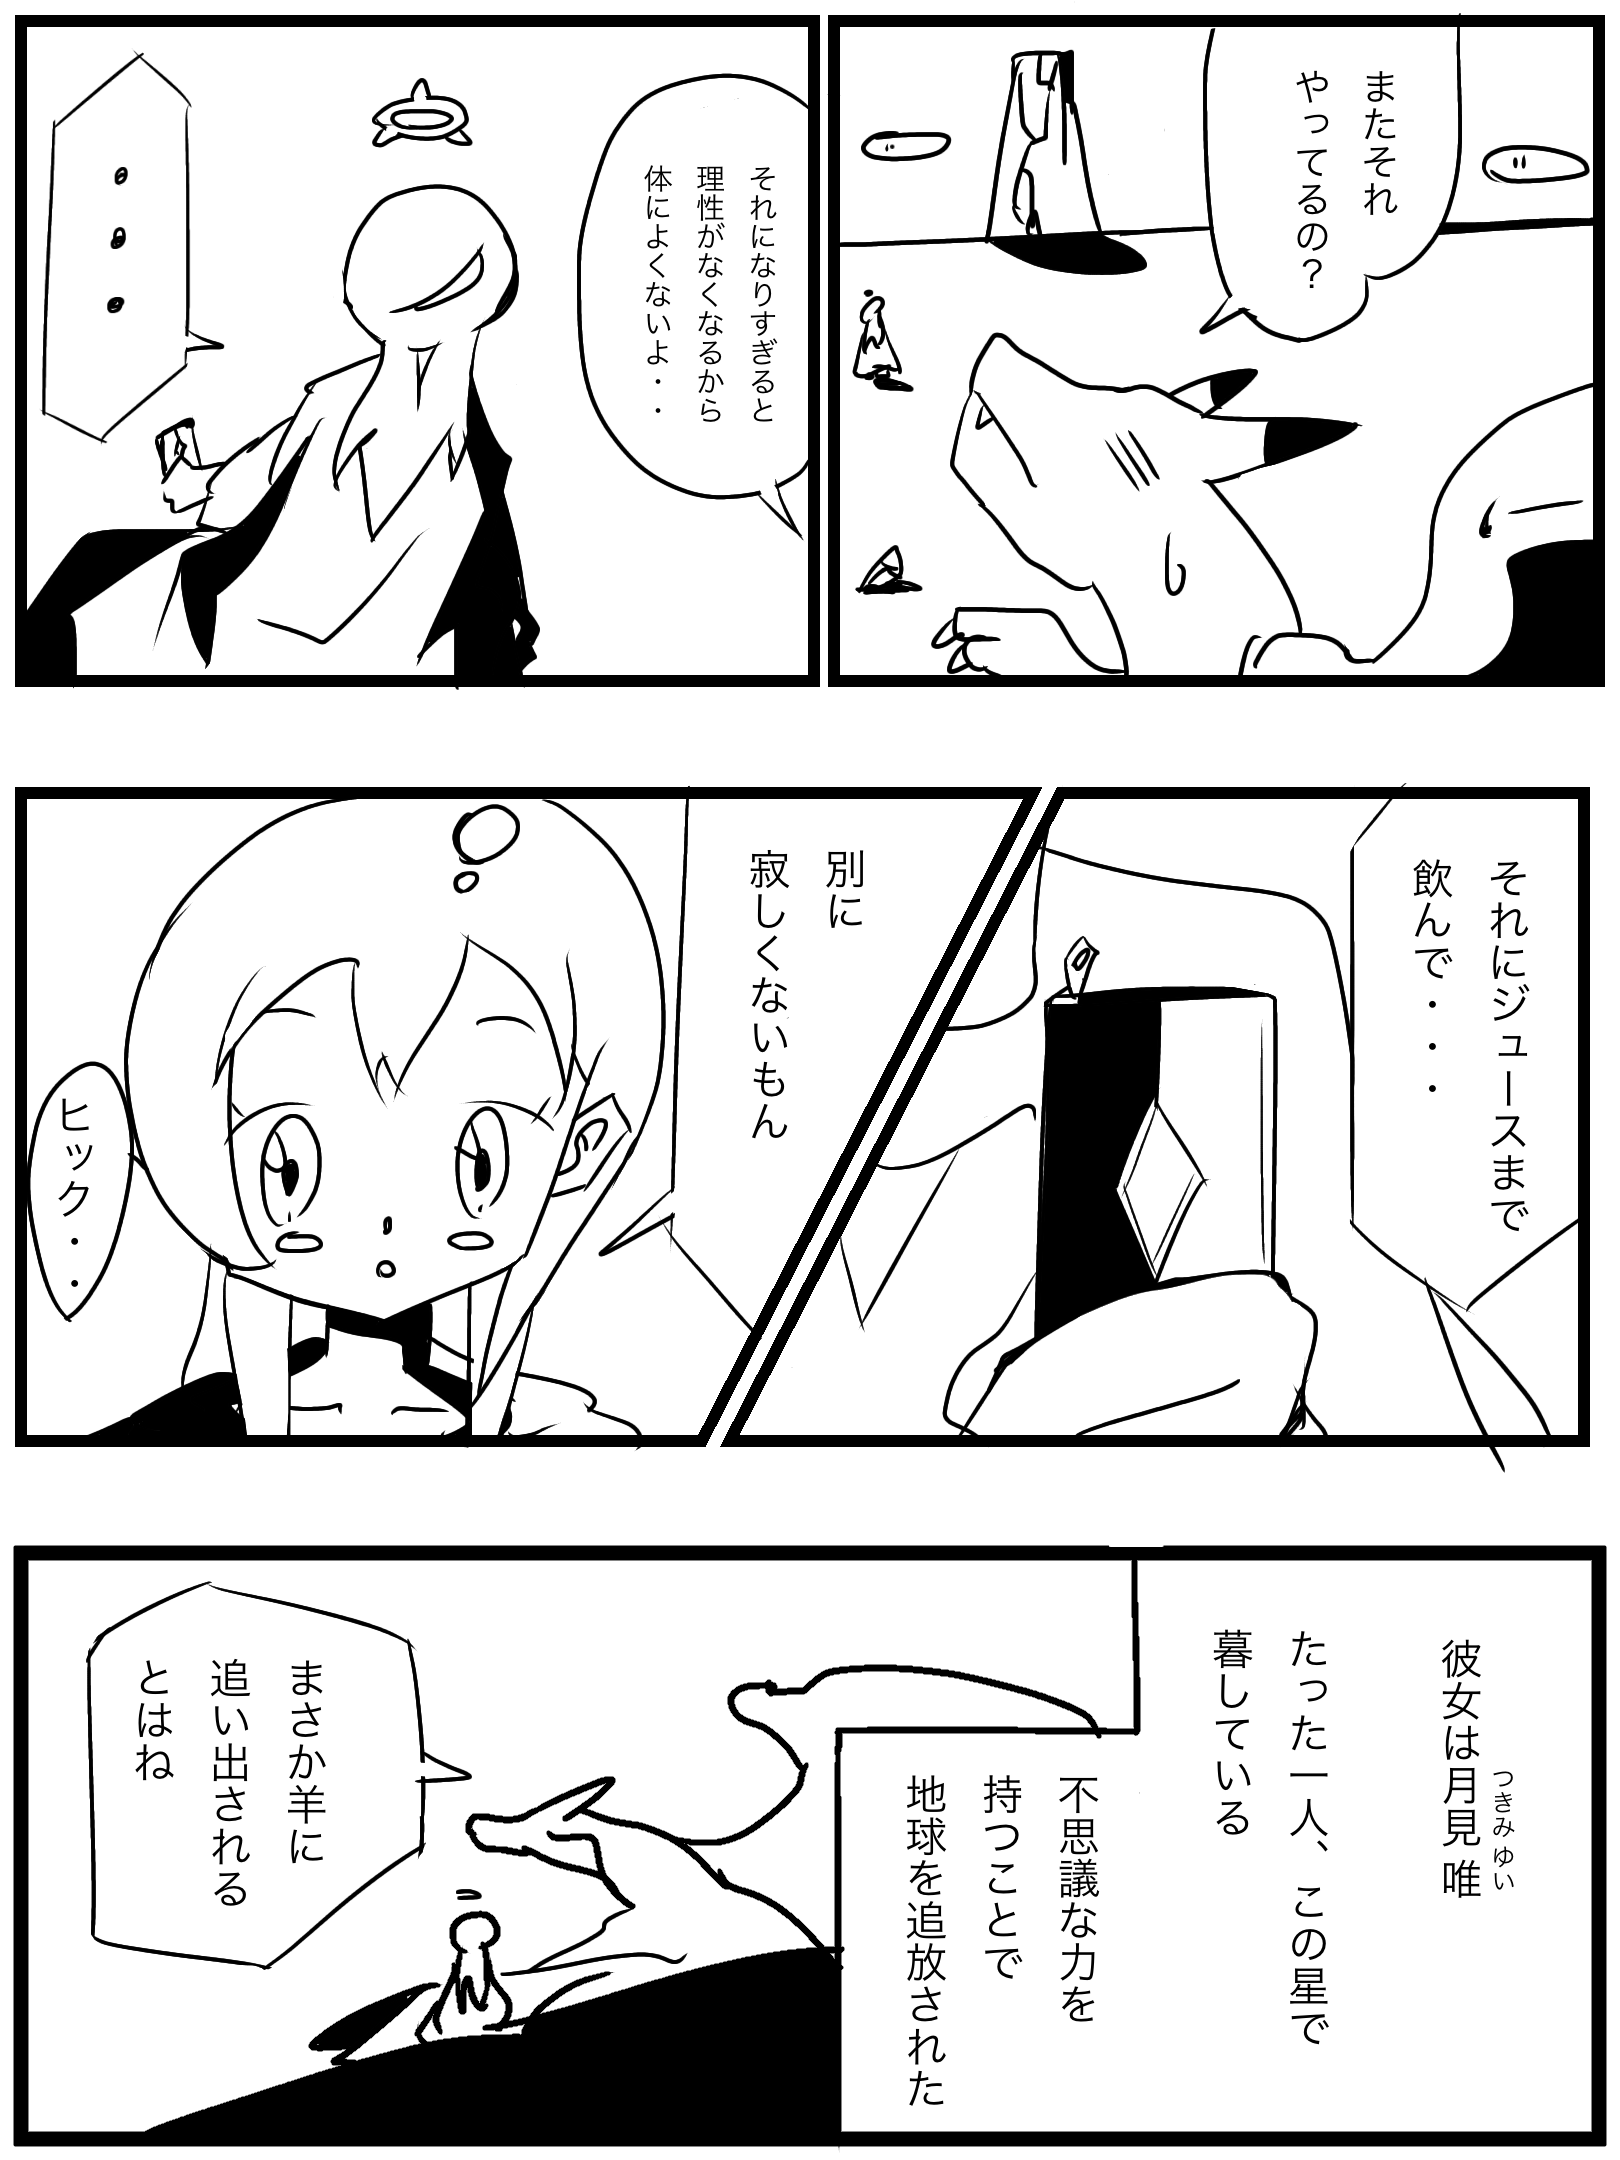
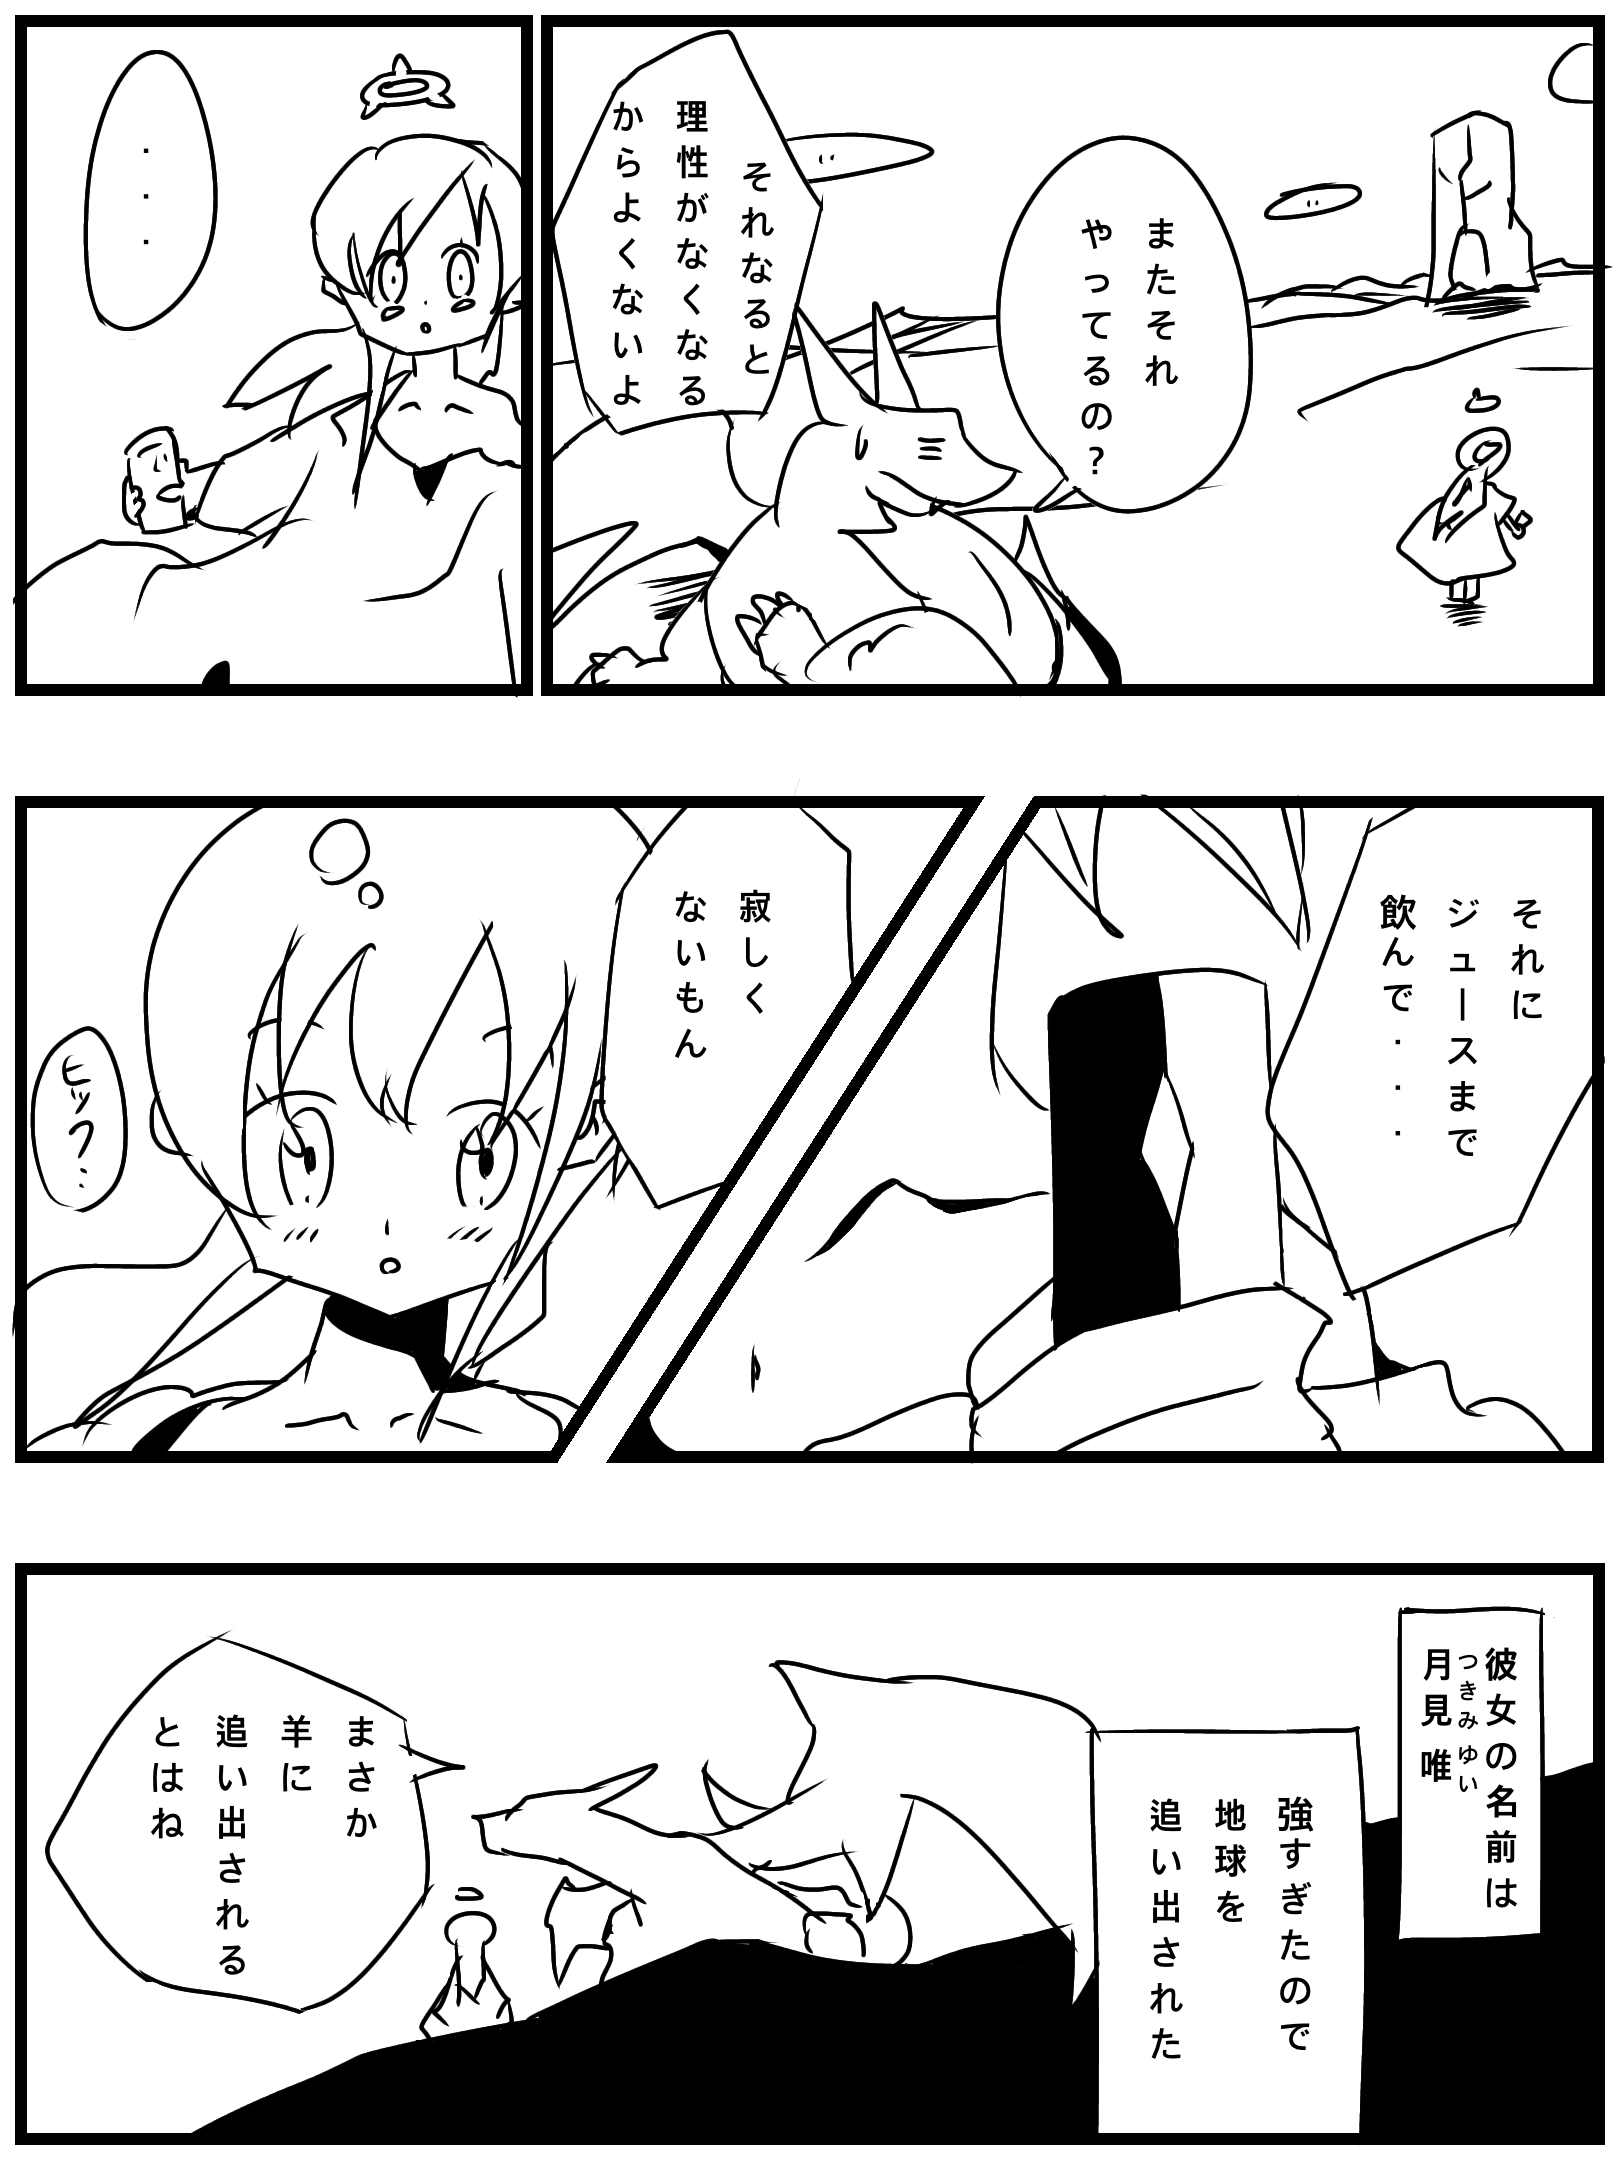
fix

diff --git a/content/blog/2020-08-05-manga.md b/content/blog/2020-08-05-manga.md
@@ -1,0 +1,12 @@
++++
+date = "2020-08-05"
+tags = ["manga"]
+title = "漫画をrewirteしてみた"
+slug = "manga"
++++
+
+以前、漫画を描いてみたんだけど、どうにも下書きっぽくて、でもめんどくさいから放置してて、でも仕上げを上達したいなってちょっと思ったので、以前描いたページで納得いかないやつ、rewireteしてみようかなと思います。
+
+![](/manga/1.png)
+
+[/manga](/manga)
